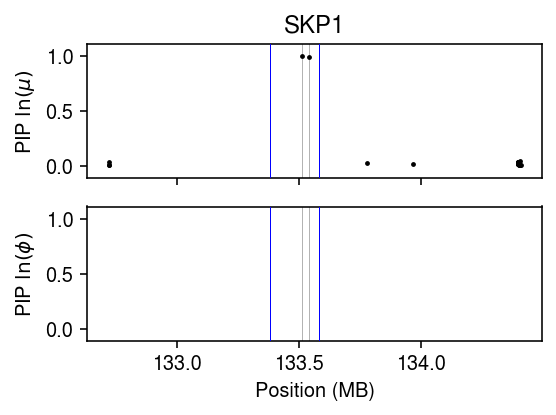
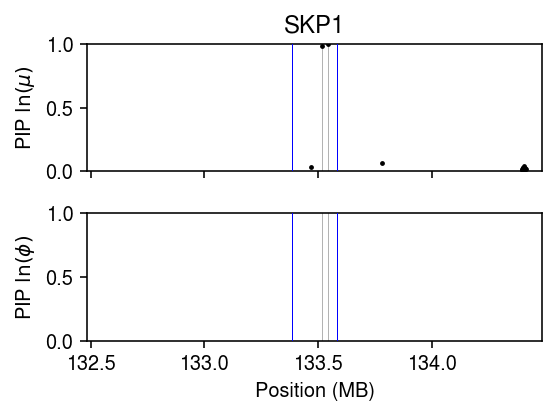
Revise DGLM spec

diff --git a/docs/scqtl.html b/docs/scqtl.html
@@ -1,7 +1,7 @@
 <!DOCTYPE html>
 <html lang="en">
 <head>
-<!-- 2020-05-07 Thu 14:41 -->
+<!-- 2020-05-07 Thu 15:18 -->
 <meta charset="utf-8">
 <meta name="viewport" content="width=device-width, initial-scale=1">
 <title>Single cell QTL mapping via sparse multiple regression</title>
@@ -334,15 +334,25 @@ expression model for gene \(j\)
 
 \begin{align}
   \lambda_{i} &= \Gam(\phi_{i}^{-1}, \mu_{i}^{-1} \phi_{i}^{-1})\\
-  \ln\mu_{i} &= \ml\mg\vb_{\mu} + \vb_{\mu 0}\\
-  \ln\phi_{i} &= \ml\mg\vb_{\phi} + \vb_{\phi 0},
+  \ln\mu_{i} &= \ml(\mg\vb_{\mu} + b_{\mu 0})\\
+  \ln\phi_{i} &= \ml(\mg\vb_{\phi} + b_{\phi 0}),
 \end{align}
 
 <p>
-where \(\mg\) denotes genotype (\(m \times s\)). This approach would increase
-power by pooling samples across individuals with same (similar) genotypes,
-and is similar to previously proposed approaches (e.g.,
-<a href="https://www.genetics.org/content/188/2/435">Rönnegård and Valdar 2011</a>,
+where
+</p>
+
+<ul class="org-ul">
+<li>\(\mg\) denotes genotype (\(m \times s\))</li>
+<li>\(\vb_{\mu}\), \(\vb_{\phi}\) denote genetic effects (\(s \times 1)\)</li>
+<li>\(b_{\mu 0}\), \(b_{\phi 0}\) denote (scalar) intercepts</li>
+</ul>
+
+<p>
+This approach would increase power by pooling samples across individuals with
+same (similar) genotypes, and is similar to previously proposed approaches
+(e.g., <a href="https://www.genetics.org/content/188/2/435">Rönnegård and Valdar
+2011</a>,
 <a href="https://bmcgenet.biomedcentral.com/articles/10.1186/1471-2156-13-63">Rönnegård
 and Valdar 2012</a>). To fit this model for \(s > m\), we can further assume a
 sparsity-inducing prior
@@ -530,14 +540,12 @@ Fit the sparse regression model.
 <div class="org-src-container">
 <pre class="src src-ipython"><span class="org-variable-name">data</span> = td.DataLoader(
   td.TensorDataset(
-    torch.tensor(L.values @ x.values.T, dtype=torch.<span class="org-builtin">float</span>),
+    torch.tensor(L.values, dtype=torch.<span class="org-builtin">float</span>),
     torch.tensor(y[:,y.var[<span class="org-string">'name'</span>] == <span class="org-string">'SKP1'</span>].X.A, dtype=torch.<span class="org-builtin">float</span>),
     torch.tensor(y.obs[<span class="org-string">'mol_hs'</span>].values, dtype=torch.<span class="org-builtin">float</span>)),
   batch_size=128, shuffle=<span class="org-constant">True</span>)
-<span class="org-variable-name">fit</span> = (txpred.models.susie.PoisGamRegression(
-  mean_prior=txpred.models.susie.SpikeSlab(x.shape[0], fit_intercept=<span class="org-constant">True</span>),
-  inv_disp_prior=txpred.models.susie.SpikeSlab(x.shape[0], fit_intercept=<span class="org-constant">True</span>))
-       .fit(data, n_epochs=80, trace=<span class="org-constant">True</span>))
+<span class="org-variable-name">fit</span> = (txpred.models.susie.PoisGamRegression(m=L.shape[1], p=x.shape[0])
+       .fit(torch.tensor(x.values.T, dtype=torch.<span class="org-builtin">float</span>), data, n_epochs=80, trace=<span class="org-constant">False</span>))
 </pre>
 </div>
 
@@ -552,6 +560,8 @@ ax[0].scatter(grid[pip &gt; 1e-2], pip[pip &gt; 1e-2], s=2, c=<span class="org-s
   <span class="org-keyword">for</span> a <span class="org-keyword">in</span> ax:
     a.axvline(x=t, lw=.5, c=<span class="org-string">'0.7'</span>, zorder=-1)
 ax[0].set_ylabel(r<span class="org-string">'PIP $\ln(\mu)$'</span>)
+ax[0].set_xlim(grid.<span class="org-builtin">min</span>(), grid.<span class="org-builtin">max</span>())
+ax[0].set_ylim(0, 1)
 <span class="org-variable-name">pip</span> = torch.sigmoid(fit.inv_disp_prior.logits.detach()).numpy().ravel()
 ax[1].scatter(grid[pip &gt; 1e-2], pip[pip &gt; 1e-2], s=2, c=<span class="org-string">'k'</span>)
 <span class="org-keyword">for</span> t <span class="org-keyword">in</span> grid[pip &gt; .5]:
@@ -579,7 +589,7 @@ fig.tight_layout()
 </div>
 <div id="postamble" class="status">
 <p class="author">Author: Abhishek Sarkar</p>
-<p class="date">Created: 2020-05-07 Thu 14:41</p>
+<p class="date">Created: 2020-05-07 Thu 15:18</p>
 <p class="validation"><a href="http://validator.w3.org/check?uri=referer">Validate</a></p>
 </div>
 </body>
